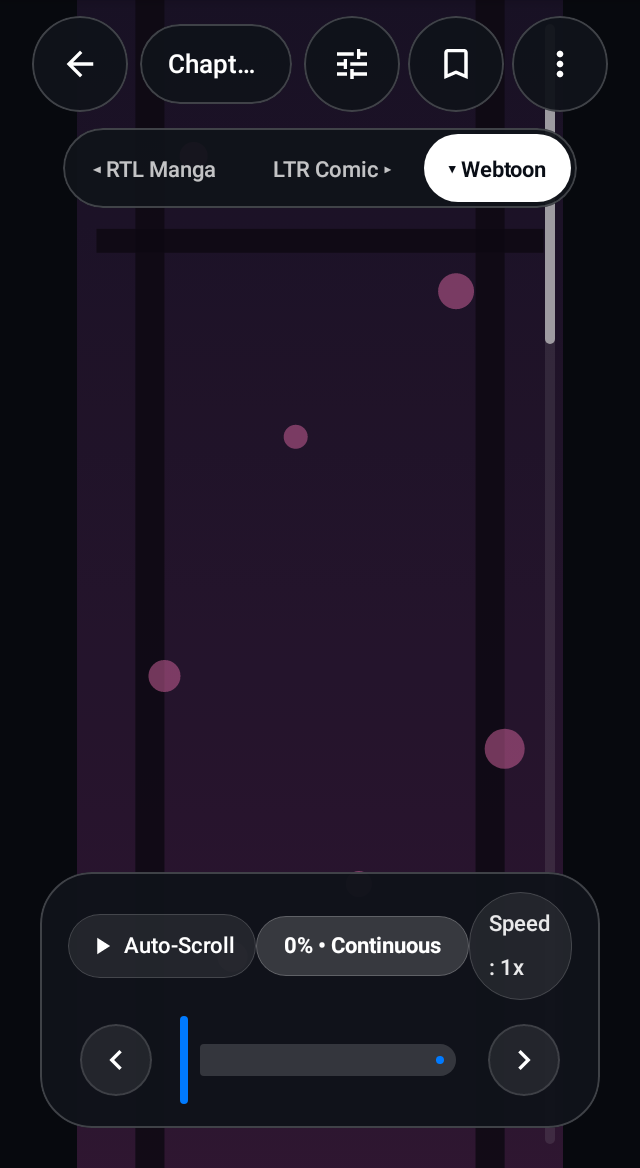
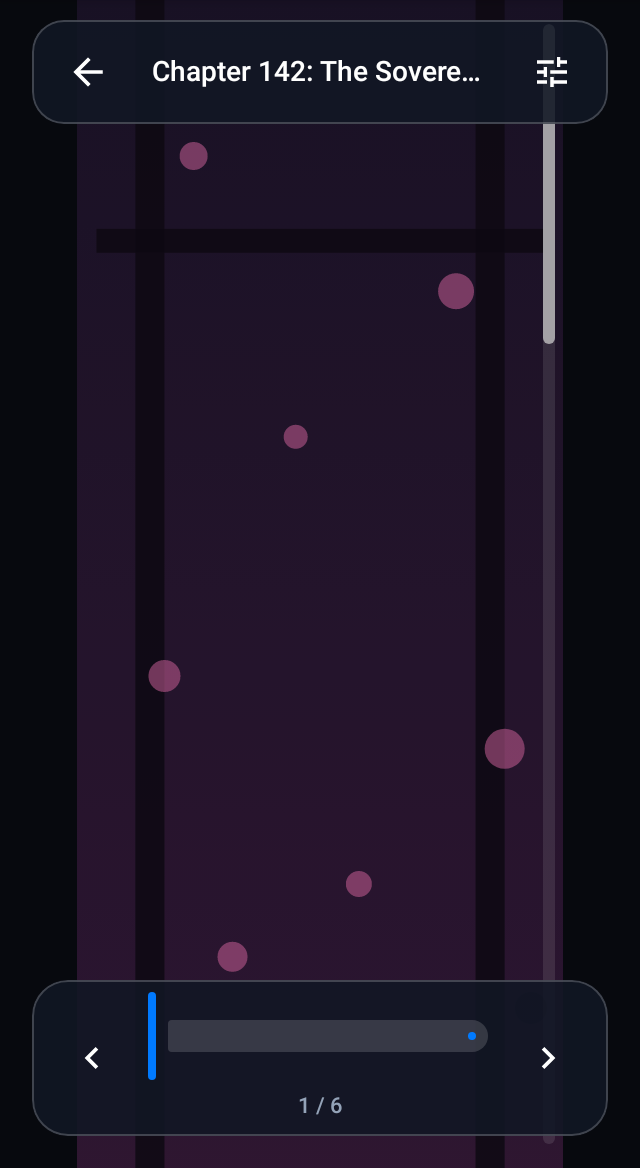
test(reader): add RTL/LTR direction, controls UI, and tablet/fontScale screenshot tests

diff --git a/UI UX/composeApp/src/commonTest/kotlin/ui/reader/ReaderEngineTest.kt b/UI UX/composeApp/src/commonTest/kotlin/ui/reader/ReaderEngineTest.kt
@@ -13,6 +13,8 @@ import ui.screens.webtoonreader.TapAction
 import ui.screens.webtoonreader.computeReaderDecodeSize
 import ui.screens.webtoonreader.computeWebtoonScrollbarMetrics
 import ui.screens.webtoonreader.formatImageLoadError
+import ui.screens.webtoonreader.mapReaderSliderFraction
+import ui.screens.webtoonreader.resolveReaderBottomNav
 import ui.screens.webtoonreader.shouldAutoAdvanceOnBottomScroll
 import ui.screens.webtoonreader.shouldResetReaderScroll
 import kotlin.test.Test
@@ -201,8 +203,19 @@ class ReaderEngineTest {
 
     @Test
     fun testShouldAutoAdvanceOnBottomScroll_guardsAndTriggers() {
-        // Triggers only at bottom (!canScrollForward), with downward scroll (y < -4), next chapter available, not yet triggered
+        // Triggers only at bottom (!canScrollForward), with deliberate downward overscroll (y <= -160)
         assertTrue(
+            shouldAutoAdvanceOnBottomScroll(
+                hasNextChapter = true,
+                alreadyTriggered = false,
+                canScrollForward = false,
+                downwardScrollDeltaY = -180f,
+                isEmptyPages = false
+            )
+        )
+
+        // Does not trigger on light/accidental scroll at bottom (e.g. -12f)
+        assertFalse(
             shouldAutoAdvanceOnBottomScroll(
                 hasNextChapter = true,
                 alreadyTriggered = false,
@@ -218,7 +231,7 @@ class ReaderEngineTest {
                 hasNextChapter = true,
                 alreadyTriggered = false,
                 canScrollForward = true,
-                downwardScrollDeltaY = -20f,
+                downwardScrollDeltaY = -200f,
                 isEmptyPages = false
             )
         )
@@ -249,7 +262,7 @@ class ReaderEngineTest {
                 hasNextChapter = true,
                 alreadyTriggered = true,
                 canScrollForward = false,
-                downwardScrollDeltaY = -20f,
+                downwardScrollDeltaY = -200f,
                 isEmptyPages = false
             )
         )
@@ -258,7 +271,7 @@ class ReaderEngineTest {
                 hasNextChapter = false,
                 alreadyTriggered = false,
                 canScrollForward = false,
-                downwardScrollDeltaY = -20f,
+                downwardScrollDeltaY = -200f,
                 isEmptyPages = false
             )
         )
@@ -267,10 +280,28 @@ class ReaderEngineTest {
                 hasNextChapter = true,
                 alreadyTriggered = false,
                 canScrollForward = false,
-                downwardScrollDeltaY = -20f,
+                downwardScrollDeltaY = -200f,
                 isEmptyPages = true
             )
         )
+    }
+
+    @Test
+    fun testReaderRtlVsLtrBottomNavAndSliderMapping() {
+        val rtlNav = resolveReaderBottomNav(isRtl = true, hasPreviousChapter = true, hasNextChapter = false)
+        assertTrue(rtlNav.leftIsNext)
+        assertFalse(rtlNav.leftEnabled)
+        assertFalse(rtlNav.rightIsNext)
+        assertTrue(rtlNav.rightEnabled)
+
+        val ltrNav = resolveReaderBottomNav(isRtl = false, hasPreviousChapter = true, hasNextChapter = false)
+        assertFalse(ltrNav.leftIsNext)
+        assertTrue(ltrNav.leftEnabled)
+        assertTrue(ltrNav.rightIsNext)
+        assertFalse(ltrNav.rightEnabled)
+
+        assertEquals(0.75f, mapReaderSliderFraction(0.25f, isRtl = true), 0.001f)
+        assertEquals(0.25f, mapReaderSliderFraction(0.25f, isRtl = false), 0.001f)
     }
 
     @Test
@@ -318,7 +349,7 @@ class ReaderEngineTest {
     @Test
     fun testComputeReaderDecodeSize_clampsBounds() {
         val defaultSize = computeReaderDecodeSize()
-        assertEquals(Size(1440, 2880), defaultSize)
+        assertEquals(Size(2048, 4096), defaultSize)
 
         val clampedLow = computeReaderDecodeSize(maxWidthPx = 100, maxHeightPx = 100)
         assertEquals(Size(320, 480), clampedLow)

diff --git a/UI UX/composeApp/src/androidUnitTest/kotlin/io/panel/reader/ReaderControlsUiTest.kt b/UI UX/composeApp/src/androidUnitTest/kotlin/io/panel/reader/ReaderControlsUiTest.kt
@@ -1,0 +1,98 @@
+package io.panel.reader
+
+import androidx.compose.ui.test.junit4.createComposeRule
+import androidx.compose.ui.test.onNodeWithContentDescription
+import androidx.compose.ui.test.performClick
+import core.source.SourcePage
+import data.settings.DefaultReadingMode
+import data.settings.FakeSettingsRepository
+import org.junit.Rule
+import org.junit.Test
+import org.junit.runner.RunWith
+import org.robolectric.RobolectricTestRunner
+import ui.screens.webtoonreader.WebtoonReaderScreenContent
+import ui.theme.PanelTheme
+import kotlin.test.assertEquals
+
+@RunWith(RobolectricTestRunner::class)
+class ReaderControlsUiTest {
+
+    @get:Rule
+    val composeTestRule = createComposeRule()
+
+    private val samplePages = listOf(
+        SourcePage(index = 0, url = "p1"),
+        SourcePage(index = 1, url = "p2")
+    )
+
+    @Test
+    fun ltrMode_topAndBottomControls_triggerCorrectCallbacks() {
+        var backClicks = 0
+        var settingsClicks = 0
+        var prevClicks = 0
+        var nextClicks = 0
+        val settingsRepo = FakeSettingsRepository().apply {
+            setDefaultReadingMode(DefaultReadingMode.LEFT_TO_RIGHT)
+        }
+
+        composeTestRule.setContent {
+            PanelTheme {
+                WebtoonReaderScreenContent(
+                    chapterUrl = "ch-10",
+                    chapterTitle = "Chapter 10",
+                    pages = samplePages,
+                    onBack = { backClicks++ },
+                    onOpenSettings = { settingsClicks++ },
+                    onPreviousChapter = { prevClicks++ },
+                    onNextChapter = { nextClicks++ },
+                    settingsRepository = settingsRepo,
+                    hasPreviousChapter = true,
+                    hasNextChapter = true
+                )
+            }
+        }
+
+        composeTestRule.onNodeWithContentDescription("Back").performClick()
+        composeTestRule.onNodeWithContentDescription("Reader Settings").performClick()
+        composeTestRule.onNodeWithContentDescription("Previous Chapter").performClick()
+        composeTestRule.mainClock.advanceTimeBy(600L)
+        composeTestRule.onNodeWithContentDescription("Next Chapter").performClick()
+
+        assertEquals(1, backClicks)
+        assertEquals(1, settingsClicks)
+        assertEquals(1, prevClicks)
+        assertEquals(1, nextClicks)
+    }
+
+    @Test
+    fun rtlMode_chapterButtonsRespectDirectionAndDisabledState() {
+        var prevClicks = 0
+        var nextClicks = 0
+        val settingsRepo = FakeSettingsRepository().apply {
+            setDefaultReadingMode(DefaultReadingMode.RIGHT_TO_LEFT)
+        }
+
+        composeTestRule.setContent {
+            PanelTheme {
+                WebtoonReaderScreenContent(
+                    chapterUrl = "ch-1",
+                    chapterTitle = "Chapter 1",
+                    pages = samplePages,
+                    onBack = {},
+                    onOpenSettings = {},
+                    onPreviousChapter = { prevClicks++ },
+                    onNextChapter = { nextClicks++ },
+                    settingsRepository = settingsRepo,
+                    hasPreviousChapter = false,
+                    hasNextChapter = true
+                )
+            }
+        }
+
+        composeTestRule.onNodeWithContentDescription("Previous Chapter").performClick()
+        composeTestRule.onNodeWithContentDescription("Next Chapter").performClick()
+
+        assertEquals(0, prevClicks)
+        assertEquals(1, nextClicks)
+    }
+}

diff --git a/UI UX/composeApp/src/androidUnitTest/kotlin/io/panel/reader/ScreenshotsTest.kt b/UI UX/composeApp/src/androidUnitTest/kotlin/io/panel/reader/ScreenshotsTest.kt
@@ -776,4 +776,55 @@ class ScreenshotsTest {
         }
         composeTestRule.onRoot().captureRoboImage("screenshots/25_webtoon_reader_narrow_320dp.png")
     }
+
+    @Test
+    @Config(qualifiers = "w1024dp-h768dp-xhdpi")
+    fun capture_30_reader_rtl_tablet_landscape() {
+        val pages = runBlocking { repository.getPages("").first() }
+        val mangaSettingsRepo = FakeSettingsRepository().apply {
+            setDefaultReadingMode(DefaultReadingMode.RIGHT_TO_LEFT)
+        }
+
+        composeTestRule.setContent {
+            PanelTheme(themeMode = ThemeMode.DARK) {
+                WebtoonReaderScreenContent(
+                    chapterTitle = "Chapter 142: Tablet Dual-Page RTL",
+                    pages = pages,
+                    settingsRepository = mangaSettingsRepo,
+                    hasPreviousChapter = true,
+                    hasNextChapter = true,
+                    onBack = {}
+                )
+            }
+        }
+        composeTestRule.onRoot().captureRoboImage("screenshots/30_reader_rtl_tablet_landscape.png")
+    }
+
+    @Test
+    @Config(qualifiers = "w320dp-h640dp-xhdpi")
+    fun capture_31_reader_minimal_glass_font20() {
+        val pages = runBlocking { repository.getPages("").first() }
+        val mangaSettingsRepo = FakeSettingsRepository().apply {
+            setDefaultReadingMode(DefaultReadingMode.LEFT_TO_RIGHT)
+        }
+
+        composeTestRule.setContent {
+            val baseDensity = LocalDensity.current
+            CompositionLocalProvider(
+                LocalDensity provides Density(density = baseDensity.density, fontScale = 2.0f)
+            ) {
+                PanelTheme(themeMode = ThemeMode.DARK) {
+                    WebtoonReaderScreenContent(
+                        chapterTitle = "Chapter 142: The Sovereign of Eternal Shadows",
+                        pages = pages,
+                        settingsRepository = mangaSettingsRepo,
+                        hasPreviousChapter = false,
+                        hasNextChapter = true,
+                        onBack = {}
+                    )
+                }
+            }
+        }
+        composeTestRule.onRoot().captureRoboImage("screenshots/31_reader_minimal_glass_font20.png")
+    }
 }
